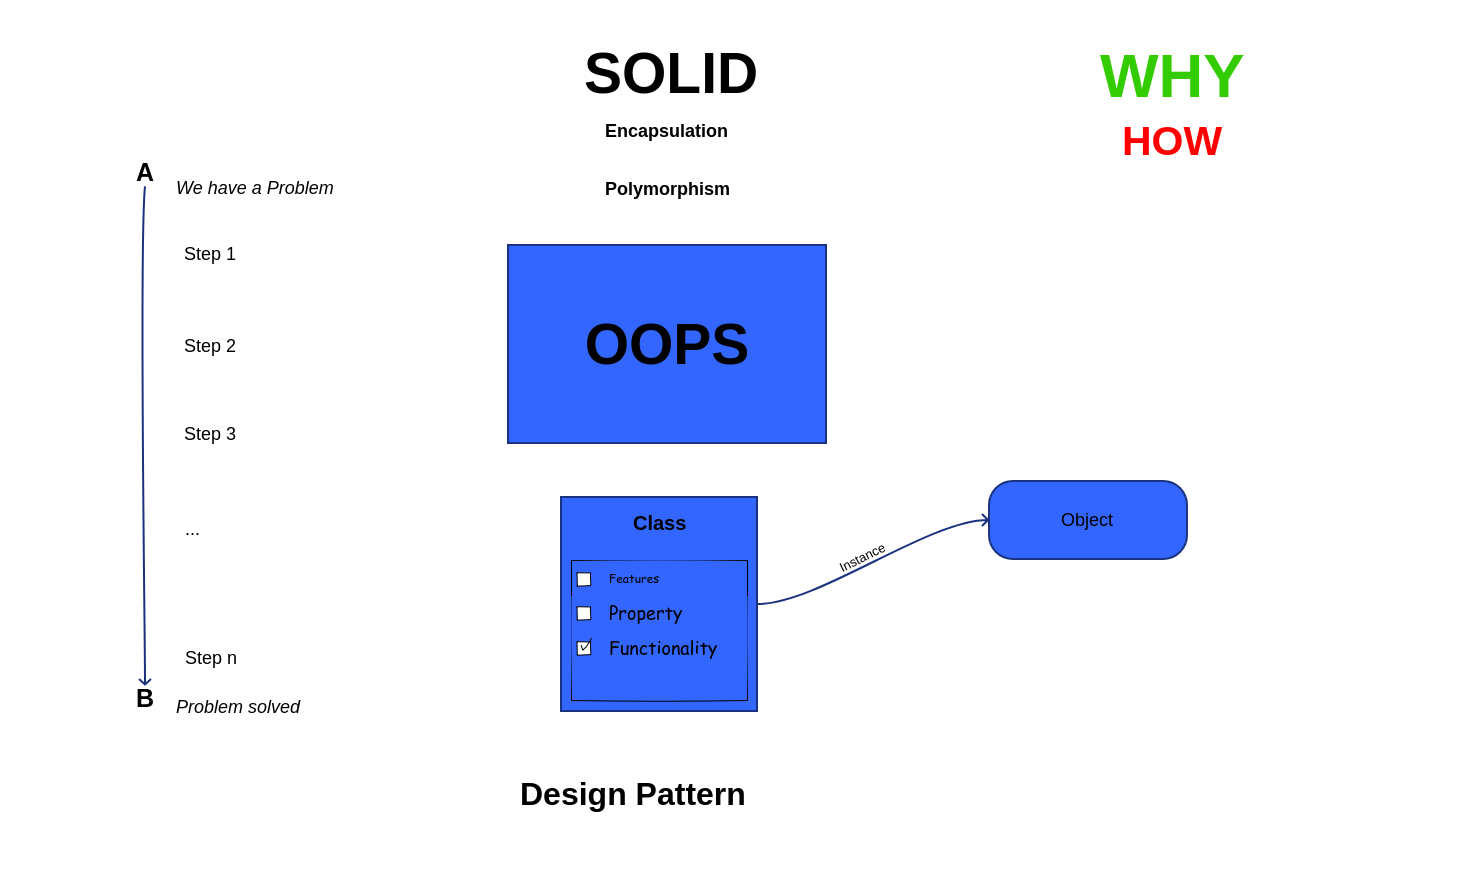
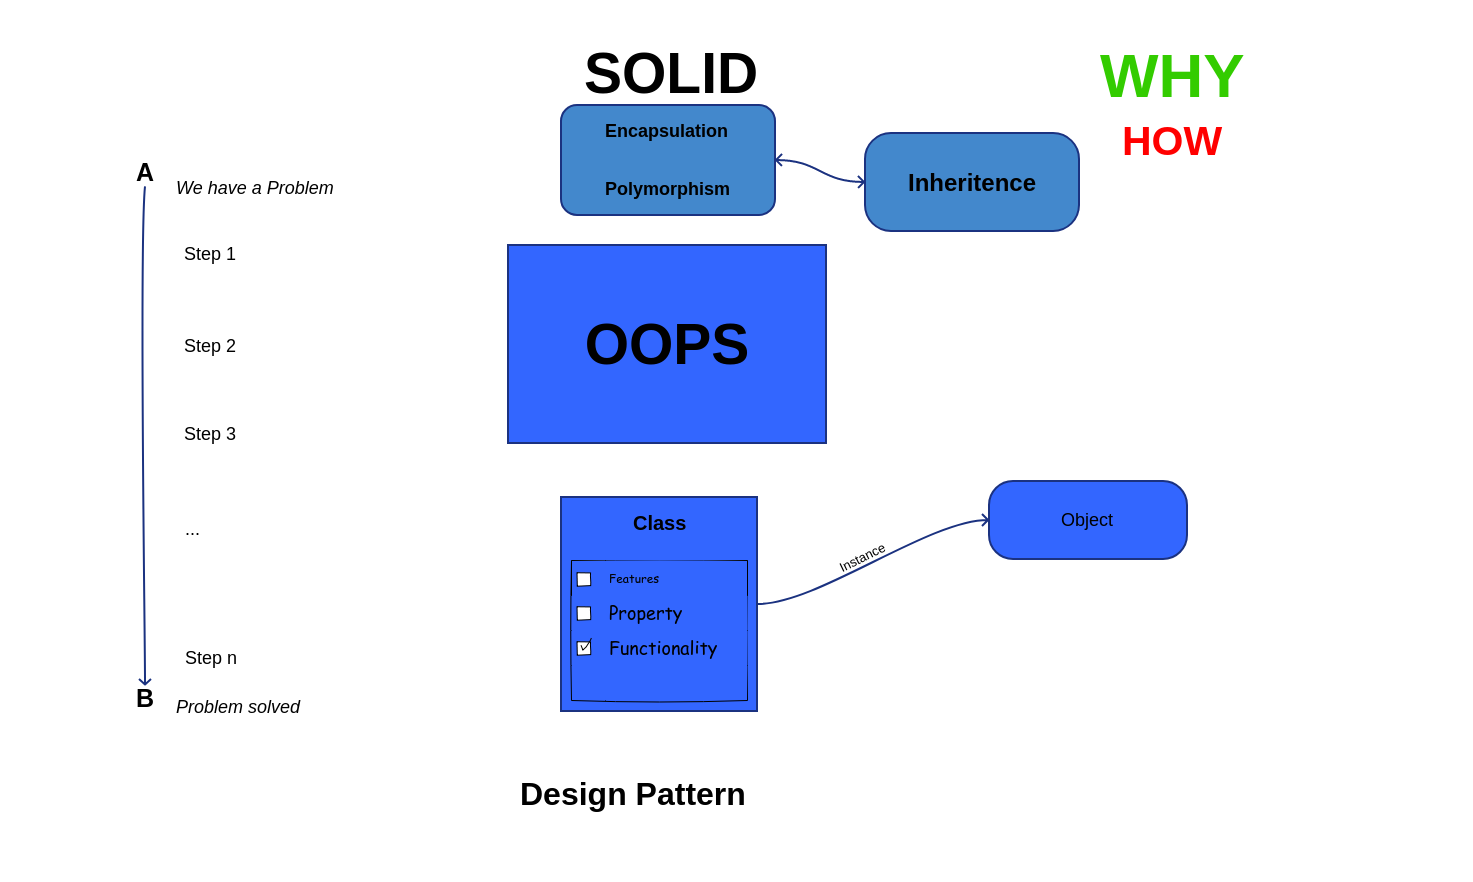
Day 2

Changed region(s): [[0.5621, 0.1224, 0.7495, 0.2755], [0.3747, 0.0918, 0.5309, 0.2449]]

diff --git a/Inheritense.cs b/Inheritense.cs
@@ -1,0 +1,59 @@
+class A {
+  public string AProperty1 {get; set;}
+  public string AProperty2 {get; set;}
+
+  public void DoSomethingInA(){}
+  public void DoSomethingElseInA(){}
+}
+
+class B: A {
+  public string BProperty1 {get; set;}
+  public string BProperty2 {get; set;}
+
+  public void DoSomethingInB(){}
+  public void DoSomethingElseInB(){}
+}
+
+/*
+class B {
+  public string AProperty1 {get; set;} --> Link to A.AProperty1
+  public string AProperty2 {get; set;} --> Link to A.AProperty1
+  public string BProperty1 {get; set;}
+  public string BProperty2 {get; set;}
+
+  public void DoSomethingInA(){}  --> Link to A.DoSomethingInA
+  public void DoSomethingElseInA(){}  --> Link to A.DoSomethingElseInA
+  public void DoSomethingInB(){}
+  public void DoSomethingElseInB(){}
+}
+*/
+
+// Program.cs
+public class Program {
+  public void main(){
+   ✔ A a1 = new A(); 
+   ✔ A a2 = new B(); // * Mother of all Oops inventions
+   ❌ B b1 = new A(); 
+   ✔ B b2 = new B();
+
+   ✔ Scenario 1:
+    a1.AProperty1;
+    a1.DoSomethingElseInA();
+
+    Scenario 2:
+    a2.AProperty1;
+    a2.DoSomethingElseInA();
+    a2.BProperty1; ❌
+    a2.DoSomethingElseInB(); ❌
+
+   ❌ Scenario 3: // ! You can't even declare
+    b1.AProperty1;
+    b1.DoSomethingElseInA();
+
+   ✔ Scenario 4:
+    b2.AProperty1;
+    b2.DoSomethingElseInA();
+    b2.BProperty1;
+    b2.DoSomethingElseInB();
+  }
+}

diff --git a/my.solution/my.startup.project/Program.cs b/my.solution/my.startup.project/Program.cs
@@ -1,0 +1,14 @@
+using my.solution/my.project;
+
+namespace my.solution/my.startup.project {
+  public class Program {
+    public int main(string[] args) {
+      MyProjectContext _context = new MyProjectContext();
+
+      _context.AProperty1;
+      _context.DoSomethingElseInA();
+      _context.BProperty1;
+      _context.DoSomethingElseInB();
+    }
+  }
+}

diff --git a/my.solution/my.project/A.cs b/my.solution/my.project/A.cs
@@ -1,0 +1,11 @@
+using outside.package;
+
+namespace my.solution/my.project {
+  public partial class A {
+    public string BProperty1 {get; set;}
+    public string BProperty2 {get; set;}
+
+    public void DoSomethingInB(){}
+    public void DoSomethingElseInB(){}
+  }
+}

diff --git a/my.solution/my.project/B.cs b/my.solution/my.project/B.cs
@@ -1,0 +1,11 @@
+using outside.package;
+
+namespace my.solution/my.project {
+  class B: A {
+    public string BProperty1 {get; set;}
+    public string BProperty2 {get; set;}
+
+    public void DoSomethingInB(){}
+    public void DoSomethingElseInB(){}
+  }
+}

diff --git a/outside.package/A.cs b/outside.package/A.cs
@@ -1,0 +1,10 @@
+namespace outside.package{
+
+  public partial class A {
+    public string AProperty1 {get; set;}
+    public string AProperty2 {get; set;}
+
+    public void DoSomethingInA(){}
+    public void DoSomethingElseInA(){}
+  }
+}

diff --git a/my.solution/my.project/MyProjectContext.cs b/my.solution/my.project/MyProjectContext.cs
@@ -1,0 +1,5 @@
+namespace my.solution/my.project {
+  public class MyProjectContext : A {
+
+  }
+}
